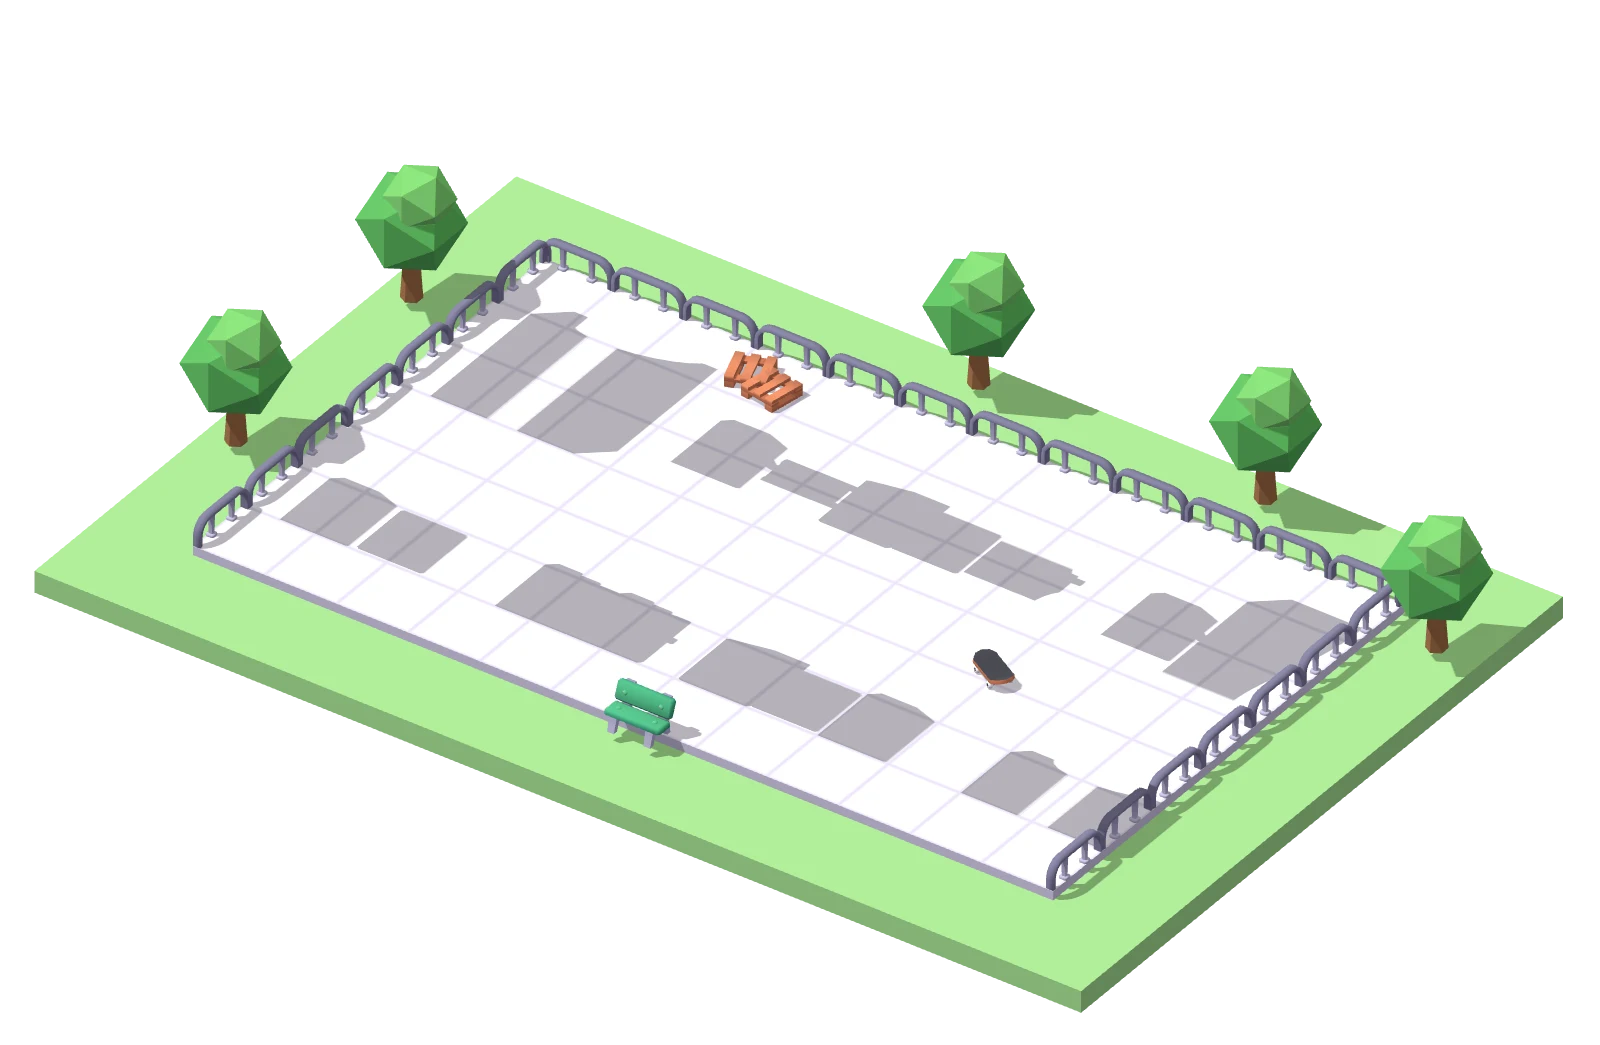
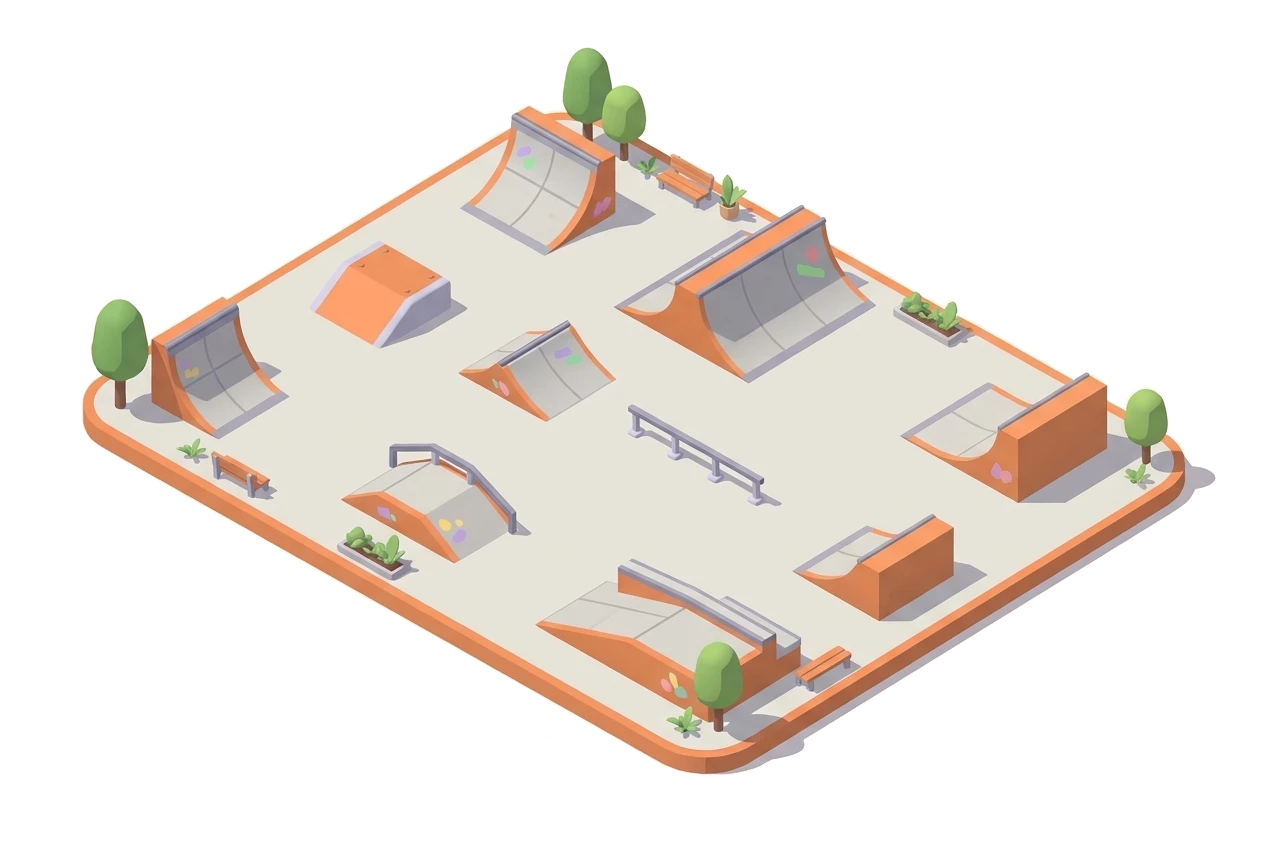
Use the painted skate parks on the map
The three park pictures were painted by an image AI in the Kenney style.
tools/cut.html cuts each stop out of them so locked stops can turn grey.
tools/ART-STYLE.md keeps the style block for asking for new pictures.

diff --git a/tools/cut.html b/tools/cut.html
@@ -1,0 +1,125 @@
+<!doctype html>
+<meta charset="utf-8">
+<title>cut parks</title>
+<!-- Dev-only tool (not published): turns the painted park pictures in tools/incoming/<zone>.jpg into what the map needs:
+     <zone>-base.webp (background made see-through), <zone>-<n>.webp (each stop cut out, so a locked one can turn grey),
+     <zone>.json (where each stop sits, in % of the picture) and <zone>-debug.png (outlines, to check the cut).
+     Open http://localhost:3013/cut.html  (?zone=ramps to do one zone) -->
+<body style="font:14px system-ui;background:#ddd">
+<pre id="log"></pre>
+<script>
+/* Each stop: box = [x0,y0,x1,y1] in picture pixels around the obstacle, ground = [x,y] the spot on the floor just in front
+   of it (the route and the skater use it), skip = boxes to leave out (a tree standing in front, say). In play order. */
+const ZONES = {
+  ramps: { tile: 5, stops: [
+    { box: [140, 290, 300, 445], ground: [255, 450] },             // quarter pipe, left
+    { box: [305, 235, 465, 355], ground: [400, 360] },             // orange box
+    { box: [455, 100, 655, 260], ground: [560, 265], skip: [[558, 40, 660, 170]] },   // quarter pipe, back (trees behind)
+    { box: [610, 200, 900, 390], ground: [760, 395] },             // big double quarter pipe
+    { box: [452, 315, 625, 428], ground: [530, 432] },             // small quarter pipe, middle
+    { box: [335, 435, 535, 575], ground: [440, 580], skip: [[330, 515, 420, 585]] },   // kicker with rail (planter)
+    { box: [530, 555, 812, 705], ground: [610, 712], skip: [[688, 630, 760, 740]] },   // big ramp, front (tree in front)
+    { box: [790, 510, 990, 625], ground: [870, 630] },             // small quarter pipe, front right
+  ] },
+  rails: { tile: 5, stops: [
+    { box: [280, 210, 470, 345], ground: [370, 330] },             // rail, back left
+    { box: [465, 310, 745, 495], ground: [585, 495] },             // long ledge
+    { box: [640, 225, 885, 380], ground: [745, 385] },             // ledge + box, back right
+    { box: [775, 450, 1000, 615], ground: [860, 615] },            // rail, front right
+  ] },
+  bowl: { tile: 5, stops: [
+    { box: [160, 305, 310, 440], ground: [270, 440] },             // quarter pipe, left
+    { box: [325, 395, 575, 590], ground: [455, 595], skip: [[330, 515, 420, 585]] },   // quarter pipe + box (planter)
+    { box: [585, 575, 790, 695], ground: [650, 700], skip: [[688, 630, 760, 740]] },   // small quarter pipe, front (tree in front)
+    { box: [760, 485, 965, 612], ground: [850, 615] },             // kicker, right
+    { box: [430, 230, 910, 510], ground: [670, 470], fill: true }, // the bowl (its inside is floor-coloured, so fill it)
+  ] },
+};
+
+const log = s => (document.getElementById('log').textContent += s + '\n');
+const save = (name, body) => fetch('/save/' + name, { method: 'POST', body });
+const load = src => new Promise((ok, no) => { const i = new Image(); i.onload = () => ok(i); i.onerror = no; i.src = src; });
+const q = new URLSearchParams(location.search);
+
+(async () => {
+  for (const [zone, cfg] of Object.entries(ZONES)) {
+    if (q.get('zone') && q.get('zone') !== zone) continue;
+    const img = await load(`/incoming/${zone}.jpg?${Date.now()}`), W = img.width, H = img.height;
+    const cv = Object.assign(document.createElement('canvas'), { width: W, height: H }), cx = cv.getContext('2d', { willReadFrequently: true });
+    cx.drawImage(img, 0, 0);
+    const src = cx.getImageData(0, 0, W, H), px = src.data;
+    const at = (x, y) => (y * W + x) * 4;
+    const dist = (i, c) => Math.max(Math.abs(px[i] - c[0]), Math.abs(px[i + 1] - c[1]), Math.abs(px[i + 2] - c[2]));
+    const mode = list => { const m = new Map(); list.forEach(i => { const k = (px[i] >> 2) + ',' + (px[i + 1] >> 2) + ',' + (px[i + 2] >> 2); m.set(k, (m.get(k) || 0) + 1); });
+      const k = [...m].sort((a, b) => b[1] - a[1])[0][0].split(',').map(v => v * 4 + 2); return k; };
+
+    // 1. the paper around the island becomes see-through (flood from the edges), with a soft edge
+    const bg = mode([0, W - 1].flatMap(x => [0, H - 1].map(y => at(x, y))).concat([...Array(200)].map((_, k) => at(k * 5 % W, 0))));
+    const out = new Uint8ClampedArray(W * H).fill(255), seen = new Uint8Array(W * H), stack = [];
+    for (let x = 0; x < W; x++) stack.push(x, (H - 1) * W + x);
+    for (let y = 0; y < H; y++) stack.push(y * W, y * W + W - 1);
+    while (stack.length) { const p = stack.pop(); if (seen[p]) continue; seen[p] = 1;
+      const d = dist(p * 4, bg); if (d > 14) continue;
+      out[p] = d <= 5 ? 0 : Math.round((d - 5) / 9 * 255);
+      const x = p % W; if (x > 0) stack.push(p - 1); if (x < W - 1) stack.push(p + 1); if (p >= W) stack.push(p - W); if (p < W * (H - 1)) stack.push(p + W); }
+    const base = cx.createImageData(W, H); base.data.set(px); for (let p = 0; p < W * H; p++) base.data[p * 4 + 3] = out[p];
+    const bc = Object.assign(document.createElement('canvas'), { width: W, height: H }); bc.getContext('2d').putImageData(base, 0, 0);
+    await save(zone + '-base.webp', bc.toDataURL('image/webp', .9));
+
+    // floor colour = the most common colour inside the island
+    const floor = mode([...Array(4000)].map(() => at(Math.round(W * (.3 + Math.random() * .4)), Math.round(H * (.3 + Math.random() * .4)))));
+    log(`${zone}: ${W}x${H} paper ${bg} floor ${floor}`);
+
+    // 2. each stop: the pixels in its box that are not plain floor, the biggest connected blob, holes filled, grown a little
+    const dbg = cx; dbg.lineWidth = 2;
+    const lay = { aspect: +(W / H).toFixed(4), tile: cfg.tile, stops: [] };
+    for (const [n, s] of cfg.stops.entries()) {
+      const [x0, y0, x1, y1] = s.box, w = x1 - x0, h = y1 - y0, m = new Uint8Array(w * h);
+      for (let y = 0; y < h; y++) for (let x = 0; x < w; x++) {
+        const i = at(x0 + x, y0 + y); if (!out[(y0 + y) * W + x0 + x]) continue;
+        if (s.skip && s.skip.some(([a, b, c, d]) => x0 + x >= a && x0 + x < c && y0 + y >= b && y0 + y < d)) continue;
+        if (dist(i, floor) > 20) m[y * w + x] = 1; }
+      // shave 1px off so the thin joint lines in the floor fall away
+      { const g = m.slice(); for (let p = 0; p < w * h; p++) if (m[p]) { const x = p % w;
+        if (!(x > 0 && m[p - 1]) || !(x < w - 1 && m[p + 1]) || !(p >= w && m[p - w]) || !(p < w * (h - 1) && m[p + w])) g[p] = 0; } m.set(g); }
+      // biggest blob
+      const lab = new Int32Array(w * h); let best = 0, bestN = 0, id = 0;
+      for (let p = 0; p < w * h; p++) if (m[p] && !lab[p]) { id++; let cnt = 0; const st = [p];
+        while (st.length) { const c = st.pop(); if (lab[c] || !m[c]) continue; lab[c] = id; cnt++; const x = c % w;
+          if (x > 0) st.push(c - 1); if (x < w - 1) st.push(c + 1); if (c >= w) st.push(c - w); if (c < w * (h - 1)) st.push(c + w); }
+        if (cnt > bestN) { bestN = cnt; best = id; } }
+      for (let p = 0; p < w * h; p++) m[p] = lab[p] === best ? 1 : 0;
+      // fill holes: whatever the box edge cannot reach is inside the obstacle
+      const reach = new Uint8Array(w * h), st = [];
+      for (let x = 0; x < w; x++) st.push(x, (h - 1) * w + x); for (let y = 0; y < h; y++) st.push(y * w, y * w + w - 1);
+      while (st.length) { const c = st.pop(); if (reach[c] || m[c]) continue; reach[c] = 1; const x = c % w;
+        if (x > 0) st.push(c - 1); if (x < w - 1) st.push(c + 1); if (c >= w) st.push(c - w); if (c < w * (h - 1)) st.push(c + w); }
+      for (let p = 0; p < w * h; p++) if (!reach[p]) m[p] = 1;
+      // grow by 3px (1 shaved + 2) so the grey covers the soft outline too
+      for (let r = 0; r < 3; r++) { const g = m.slice(); for (let p = 0; p < w * h; p++) if (!m[p]) { const x = p % w;
+        if ((x > 0 && m[p - 1]) || (x < w - 1 && m[p + 1]) || (p >= w && m[p - w]) || (p < w * (h - 1) && m[p + w])) g[p] = 1; } m.set(g); }
+      // tight bounds, then the cut-out picture
+      let l = w, t = h, r = 0, b = 0;
+      for (let p = 0; p < w * h; p++) if (m[p]) { const x = p % w, y = (p - x) / w; l = Math.min(l, x); r = Math.max(r, x); t = Math.min(t, y); b = Math.max(b, y); }
+      const cw = r - l + 1, chh = b - t + 1, co = Object.assign(document.createElement('canvas'), { width: cw, height: chh }), cc = co.getContext('2d');
+      const piece = cc.createImageData(cw, chh);
+      for (let y = 0; y < chh; y++) for (let x = 0; x < cw; x++) { const k = (y * cw + x) * 4, i = at(x0 + l + x, y0 + t + y);
+        piece.data[k] = px[i]; piece.data[k + 1] = px[i + 1]; piece.data[k + 2] = px[i + 2]; piece.data[k + 3] = m[(t + y) * w + l + x] ? 255 : 0; }
+      cc.putImageData(piece, 0, 0);
+      await save(`${zone}-${n + 1}.webp`, co.toDataURL('image/webp', .92));
+      const pc = v => +(v * 100).toFixed(2);
+      lay.stops.push({ l: pc((x0 + l) / W), t: pc((y0 + t) / H), w: pc(cw / W), h: pc(chh / H), gx: pc(s.ground[0] / W), gy: pc(s.ground[1] / H) });
+      // debug: outline of the cut + the ground point + the number
+      dbg.fillStyle = 'rgba(255,0,80,.35)';
+      for (let y = 0; y < h; y++) for (let x = 0; x < w; x++) if (m[y * w + x]) { const x2 = x % 3, y2 = y % 3; if (!x2 && !y2) dbg.fillRect(x0 + x, y0 + y, 2, 2); }
+      dbg.strokeStyle = '#06c'; dbg.strokeRect(x0, y0, w, h);
+      dbg.fillStyle = '#000'; dbg.beginPath(); dbg.arc(s.ground[0], s.ground[1], 6, 0, 7); dbg.fill();
+      dbg.font = 'bold 28px system-ui'; dbg.fillText(n + 1, x0 + 4, y0 + 26);
+    }
+    await save(zone + '-debug', cv.toDataURL('image/png'));
+    await save(zone + '.json', JSON.stringify(lay));
+    log(`${zone}: saved ${cfg.stops.length} stops`);
+  }
+  log('done');
+})().catch(e => log('ERROR ' + e.stack));
+</script>

diff --git a/index.html b/index.html
@@ -93,7 +93,7 @@
 /* level map */
 .map-head { display: flex; align-items: flex-end; justify-content: space-between; gap: 12px; flex-wrap: wrap; }
 .map-head h2 { font-size: clamp(1.6rem, 4.4vw, 2.2rem); }
-/* worlds: each chapter is one zone of the skate park (ramps / rails / bowl), drawn as a 3D park picture.
+/* worlds: each chapter is one zone of the skate park (ramps / rails / bowl), drawn as a painted park picture.
    The base picture holds the plaza; every stop is its own layer on top, so locked ones can turn grey. */
 /* chapters sit side by side in a swipe slider (no frames); under it, arrows around the current chapter's name */
 .chap-nav { display: flex; align-items: center; justify-content: center; gap: 12px; margin-top: -8px; }
@@ -104,12 +104,12 @@
 .slider { display: flex; overflow-x: auto; scroll-snap-type: x mandatory; overscroll-behavior-x: contain; scrollbar-width: none; margin-top: -6px; }
 .slider::-webkit-scrollbar { display: none; }
 .world { flex: 0 0 100%; min-width: 0; scroll-snap-align: start; scroll-snap-stop: always; position: relative; padding: 4px 2px 8px; }
-.park { position: relative; max-width: 820px; margin: calc(min(100%, 820px) * -.06) auto 0; }   /* the picture's top is empty sky: pull it up */
+.park { position: relative; max-width: 820px; margin: calc(min(100%, 820px) * -.02) auto calc(min(100%, 820px) * -.06); }   /* trim the empty paper above and below the island */
 .park > img.base, .park > svg { position: absolute; inset: 0; width: 100%; height: 100%; display: block; }
 .park .layer { position: absolute; display: block; height: auto; padding: 0; border: 0; background: none; cursor: pointer; }
 .park .over { position: absolute; inset: 0; pointer-events: none; }
 .park .layer img { width: 100%; height: auto; display: block; }
-.park .layer.soon img { filter: grayscale(1) opacity(.5); }
+.park .layer.soon img { filter: grayscale(1) brightness(1.06) contrast(.8); }   /* sits exactly over the coloured base, so no see-through */
 .park .layer:active img { transform: translateY(2px); }
 .park .badge { position: absolute; transform: translate(-50%, -100%); display: flex; flex-direction: column; align-items: center; gap: 2px; pointer-events: auto; padding: 0; border: 0; background: none; cursor: pointer; }
 .park .badge b { min-width: 34px; height: 30px; padding: 0 8px; border-radius: 999px; border: 3px solid var(--ink); color: #fff; font-family: var(--display); font-weight: 500; font-size: .95rem; display: grid; place-items: center; box-shadow: 0 2px 0 var(--ink); }
@@ -216,7 +216,7 @@ const $ = s => document.querySelector(s);
 const star = on => STAR.replace('<svg', `<svg class="${on ? 'on' : ''}"`);
 
 /* ---------- skate park zones, one per chapter ----------
-   Each zone is a 3D park rendered by tools/park.html: a base picture plus one layer per stop (window.PARK_LAYOUT). */
+   Each zone is a painted park picture cut up by tools/cut.html: a base picture plus one layer per stop (window.PARK_LAYOUT). */
 const IMG = n => `shared/img/${n}.png`;
 const SK = n => IMG('skate/' + n);
 const PARK = n => `shared/img/park/${n}.webp`;

diff --git a/shared/parks.js b/shared/parks.js
@@ -1,3 +1,3 @@
-// Generated by tools/park.html (do not edit by hand): where each skate park stop layer sits on its zone's base picture.
+// Generated by tools/cut.html (do not edit by hand): where each skate park stop layer sits on its zone's base picture.
 // All numbers are % of the base image width (l, w, gx, tile) or height (t, h, gy); aspect = width / height.
-window.PARK_LAYOUT = {"ramps":{"aspect":1.5306,"tile":4.83,"stops":[{"l":17.31,"t":43.54,"w":12.25,"h":11.77,"gx":23.48,"gy":50.45},{"l":30.75,"t":51.77,"w":12.31,"h":11.87,"gx":36.92,"gy":58.71},{"l":42,"t":60.1,"w":16.75,"h":13.11,"gx":50.37,"gy":66.98},{"l":59.88,"t":68.9,"w":12.38,"h":12.63,"gx":66.05,"gy":76.62},{"l":68.56,"t":51.87,"w":14,"h":16.46,"gx":74.79,"gy":61.47},{"l":55.25,"t":48.33,"w":12.31,"h":9.86,"gx":61.35,"gy":53.21},{"l":41.69,"t":37.99,"w":16.88,"h":14.64,"gx":50.15,"gy":46.32},{"l":26.69,"t":24.31,"w":15.56,"h":19.23,"gx":34.46,"gy":36.68}]},"rails":{"aspect":1.5594,"tile":5.17,"stops":[{"l":21.56,"t":38.79,"w":15,"h":10.33,"gx":29.06,"gy":45.56},{"l":36.94,"t":49.32,"w":13.13,"h":10.62,"gx":43.44,"gy":54.57},{"l":50.25,"t":53.22,"w":15.06,"h":18.42,"gx":57.82,"gy":63.57},{"l":64.69,"t":64.33,"w":15,"h":12.87,"gx":72.2,"gy":72.58}]},"bowl":{"aspect":1.5306,"tile":4.83,"stops":[{"l":15.75,"t":40.77,"w":15.5,"h":16.56,"gx":23.48,"gy":50.45},{"l":30.75,"t":51,"w":16.88,"h":15.41,"gx":39.16,"gy":60.09},{"l":51.56,"t":60.1,"w":15.5,"h":19.33,"gx":59.33,"gy":72.49},{"l":62.56,"t":46.32,"w":15.5,"h":19.33,"gx":70.31,"gy":58.72},{"l":26.69,"t":24.31,"w":24.5,"h":24.78,"gx":38.94,"gy":39.44}]}};
+window.PARK_LAYOUT = {"ramps":{"aspect":1.4906,"tile":5,"stops":[{"l":11.08,"t":34.2,"w":11.95,"h":17.81,"gx":20.17,"gy":53.07},{"l":24.76,"t":28.42,"w":12.03,"h":12.85,"gx":31.65,"gy":42.45},{"l":36,"t":12.03,"w":15.82,"h":18.4,"gx":44.3,"gy":31.25},{"l":48.5,"t":23.58,"w":22.71,"h":21.82,"gx":60.13,"gy":46.58},{"l":36.16,"t":37.5,"w":12.74,"h":12.5,"gx":41.93,"gy":50.94},{"l":26.82,"t":52,"w":15.43,"h":14.74,"gx":34.81,"gy":68.4},{"l":42.17,"t":72.76,"w":12.42,"h":10.38,"gx":48.26,"gy":83.96},{"l":62.58,"t":60.38,"w":15.66,"h":13.21,"gx":68.83,"gy":74.29}]},"rails":{"aspect":1.4906,"tile":5,"stops":[{"l":22.39,"t":25.47,"w":14.79,"h":15.21,"gx":29.27,"gy":38.92},{"l":36.87,"t":37.26,"w":22.07,"h":21.11,"gx":46.28,"gy":58.37},{"l":51.03,"t":27,"w":18.75,"h":17.81,"gx":58.94,"gy":45.4},{"l":61.71,"t":53.66,"w":17.41,"h":18.75,"gx":68.04,"gy":72.52}]},"bowl":{"aspect":1.4906,"tile":5,"stops":[{"l":12.66,"t":36.44,"w":11.55,"h":15.21,"gx":21.36,"gy":51.89},{"l":26.19,"t":48.23,"w":19.3,"h":20.99,"gx":36,"gy":70.17},{"l":46.52,"t":68.4,"w":12.03,"h":13.56,"gx":51.42,"gy":82.55},{"l":60.36,"t":57.67,"w":15.82,"h":14.27,"gx":67.25,"gy":72.52},{"l":34.41,"t":28.42,"w":35.13,"h":31.72,"gx":53.01,"gy":55.42}]}};

diff --git a/tools/render-server.js b/tools/render-server.js
@@ -24,6 +24,8 @@ http.createServer((req, res) => {
   }
   if (url === '/' || url === '/render.html') return send(res, path.join(__dirname, 'render.html'), 'text/html; charset=utf-8');
   if (url === '/park.html') return send(res, path.join(__dirname, 'park.html'), 'text/html; charset=utf-8');
+  if (url === '/cut.html') return send(res, path.join(__dirname, 'cut.html'), 'text/html; charset=utf-8');
+  if (url.startsWith('/incoming/')) return send(res, path.join(__dirname, 'incoming', path.basename(url)), 'image/jpeg');
   if (url === '/parks.js') return send(res, path.join(__dirname, 'parks.js'), 'text/javascript; charset=utf-8');
   if (url === '/list') { res.end(JSON.stringify(fs.readdirSync(models).filter(f => f.endsWith('.glb')))); return; }
   const file = path.join(models, path.normalize(url));

diff --git a/tools/ART-STYLE.md b/tools/ART-STYLE.md
@@ -1,0 +1,38 @@
+# สนามเด็กเรียน: art style for new pictures
+
+Use this when asking another image AI (ChatGPT, Gemini, Midjourney) for a new picture.
+Pictures made this way match the 3 skate parks on the map (tools/incoming/*.jpg).
+
+## How to ask
+1. Attach 1 or 2 pictures as a style reference. Use `tools/incoming/ramps.jpg`, plus the Kenney skater `shared/img/skate/boy.png` if the picture has a person.
+2. Paste the **style block** below, then add a short **subject** line for what you want.
+3. Save the result into `tools/incoming/`, then ask Claude to put it in the app. Claude removes the background and resizes it.
+
+## Style block (copy as is)
+```
+Style: cute, minimal 3D illustration in the style of the attached image and the
+Kenney "Mini Skate" models. Chunky low-poly toy-like shapes, rounded edges,
+flat soft pastel colors, soft matte lighting from the top-left, soft
+lavender-grey shadows to the bottom-right, no outlines, no texture noise.
+Isometric view from 30° above.
+Colors: light warm-grey concrete (#E6E2DA), warm orange (#E8823A),
+soft blue (#4A7FCF), soft purple (#8C6FD6), sunny yellow (#FFC93C),
+soft leaf green (#7DBB5A), cream background (#FBF7EC).
+Plain flat cream background #FBF7EC, nothing else around the subject.
+NO text, NO numbers, NO letters, NO logos, NO watermark.
+Made for a children's learning app: friendly, clean, not busy.
+```
+
+## Subject line examples
+- One object (an icon or a prize):
+  `Subject: a single small golden trophy cup, centered, filling about 80% of a 1024x1024 square image.`
+- A whole park:
+  `Subject: one skate park island, image 2400x1600, exactly N separate obstacles spaced apart along a winding path, small trees and benches only around the edges, no people, no dotted lines on the floor.`
+- A person: always the same boy as `shared/img/skate/boy.png`. He has fair skin, a red cap and a red/white top. He looks like a blocky Kenney toy figure.
+
+## Rules learned so far
+- Ask for **no text and no numbers**. The AI draws Thai and digits badly; the app adds its own labels.
+- Ask for **no dotted lines or paths**. The app draws its own route in play order.
+- AI often miscounts objects. Extra pieces are fine: Claude uses them as decoration.
+- Download the **largest size** offered (Upscale if there is a button). 1264px wide is the minimum.
+- Keep one chat for a set of pictures, so the style stays the same.

diff --git a/README.md b/README.md
@@ -24,9 +24,10 @@ Pushing to `main` builds `_site/` with `node build.js` and deploys it to GitHub 
 - `math/p4/6-1.html` lessons, at `<subject>/<grade>/<topic>.html`
 - `shared/core.css`, `shared/core.js` shared look and lesson shell; the lesson list `COURSES` is in core.js
 - `shared/parks.js` where each skate-park stop sits on its picture (generated)
-- `tools/` dev-only renderers for the 3D pictures (`render.html` single models, `park.html` + `parks.js` the parks)
+- `tools/` dev-only: `render.html` renders single Kenney models; `cut.html` cuts the painted park pictures in `tools/incoming/` into the map layers; `ART-STYLE.md` the style block to give an image AI for new pictures
 
 ## Credits
 
 - 3D skate park models: [Kenney "Mini Skate"](https://kenney.nl/assets/mini-skate), CC0
+- Park map pictures: painted with an image AI in the Kenney style
 - Sun, cloud, stars, trophy, lock: [Microsoft Fluent Emoji](https://github.com/microsoft/fluentui-emoji), MIT
